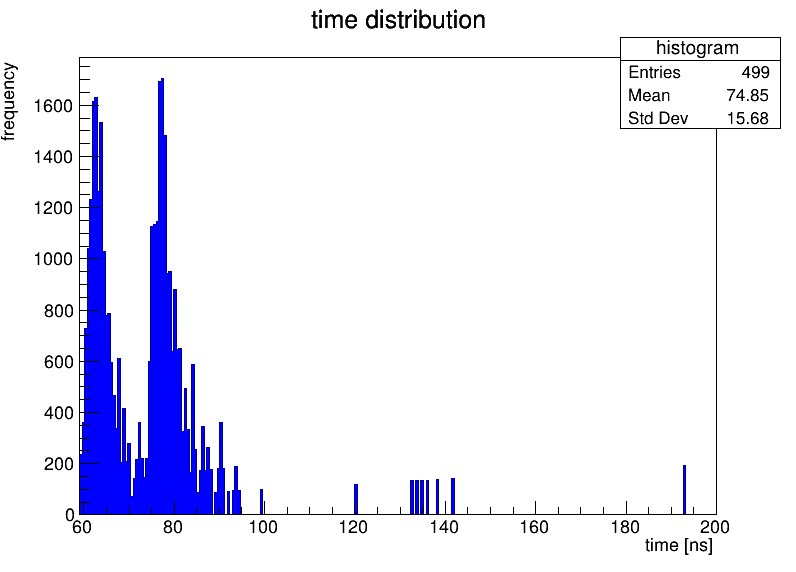
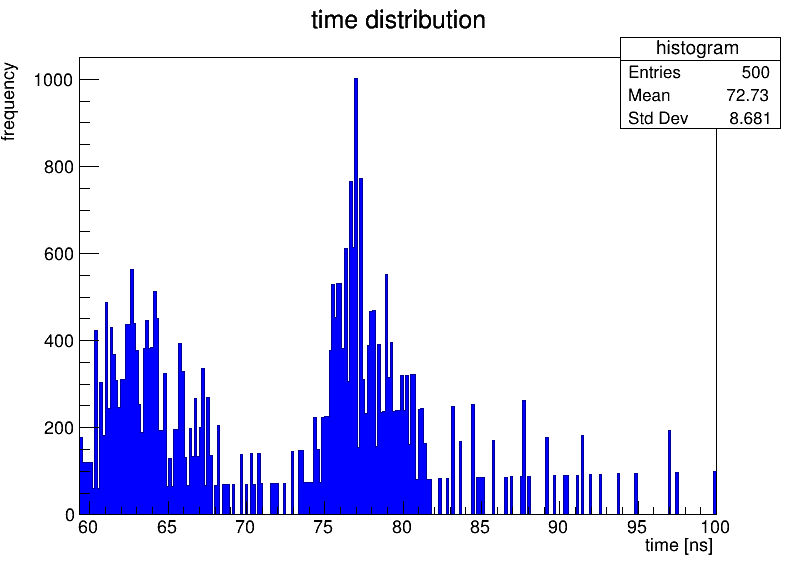
new commit

diff --git a/time_distribution.C b/time_distribution.C
@@ -39,7 +39,7 @@ int main() {
 
  
 // Creazione di gaussiane solo per gli eventi selezionati in modo casuale
-double sigma = 0.1; // Larghezza della gaussiana
+double sigma = 0.01; // Larghezza della gaussiana
 std::vector<std::pair<double, double>> sumGaussians; // Vettore per memorizzare coppie (x, y) delle gaussiane generate
 for (int i = 0; i < numEventsToSelect; ++i) {
     double mean = time[i]; // Media della gaussiana
@@ -62,7 +62,7 @@ for (const auto& pair : sumByX) {
     minX = std::min(minX, x);
     maxX = std::max(maxX, x);
 }
-TH1F *histogram = new TH1F("histogram", "time distribution", 250, minX, 200);
+TH1F *histogram = new TH1F("histogram", "time distribution", 250, minX, 100);
 histogram->SetFillColor(kBlue); // Imposta il colore di riempimento dell'istogramma a rosso
 histogram->SetXTitle("time [ns]"); // Imposta l'etichetta dell'asse x
 histogram->SetYTitle("frequency"); // Imposta l'etichetta dell'asse y
